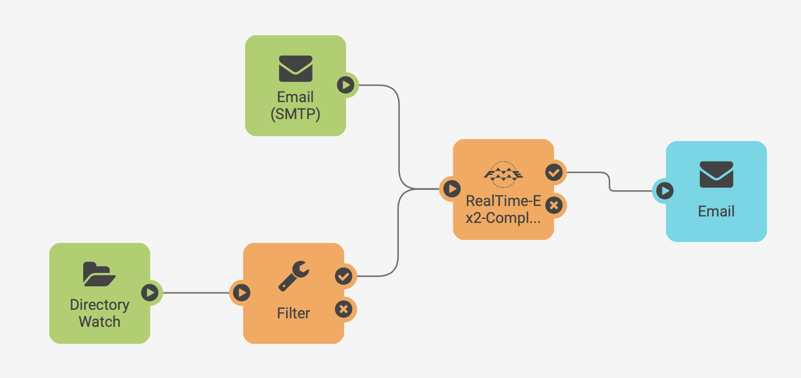
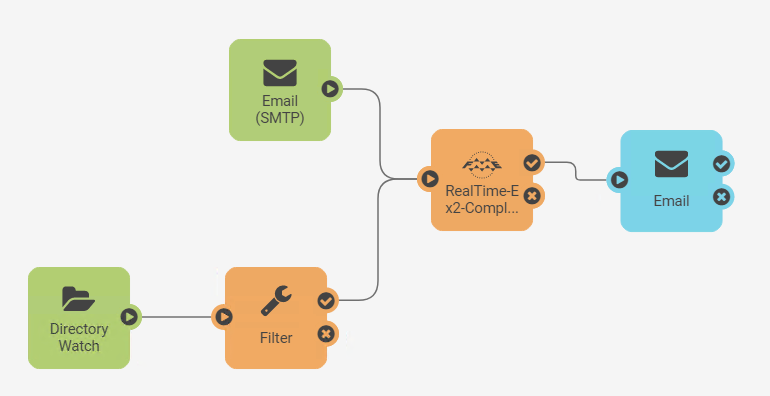
2019.1 Updates

diff --git a/ServerAuthoring4RealTime/4.04.AutomationTriggerAction.md b/ServerAuthoring4RealTime/4.04.AutomationTriggerAction.md
@@ -24,4 +24,24 @@ To send a notification in FME Server, a workspace author (or administrator) must
 ![](./Images/Img4.007.ActionMenu.png)
 
 
-Comparable to the FME Workbench canvas, Automations are constructed in a user friendly drag and drop interface. Triggers and actions are displayed on the canvas as nodes identifiable by their different color. Input and output ports are used to create connections that will pass  messages from the trigger to the associated action. The user must configure a series of parameters for the Automation to succeed dependent on the protocol. 
+Comparable to the FME Workbench canvas, Automations are constructed in a user friendly drag and drop interface. Triggers and actions are displayed on the canvas as nodes identifiable by their different color. Input and output ports are used to create connections that will pass  messages from the trigger to the associated action. The user must configure a series of parameters for the Automation to succeed dependent on the protocol.
+
+---
+<table style="border-spacing: 0px">
+<tr>
+<td style="vertical-align:middle;background-color:darkorange;border: 2px solid darkorange">
+<i class="fa fa-bolt fa-lg fa-pull-left fa-fw" style="color:white;padding-right: 12px;vertical-align:text-top"></i>
+<span style="color:white;font-size:x-large;font-weight: bold;font-family:serif">NEW 2019.1</span>
+</td>
+</tr>
+
+<tr>
+<td style="border: 1px solid darkorange">
+<span style="font-family:serif; font-style:italic; font-size:larger">
+Output ports have been added to all external actions for 2019.1. This enables an Automation to trigger further events after sending a notification to an external client.
+</span>
+</td>
+</tr>
+</table>
+
+---

diff --git a/ServerAuthoring4RealTime/4.01.Automations.md b/ServerAuthoring4RealTime/4.01.Automations.md
@@ -25,3 +25,23 @@ Automations allows you to incorporate a variety of triggers and actions into a s
 As well as using Automations to trigger an FME Server response to something that happened outside of FME Server, they are also useful when you want to send a message about something that happened on FME Server, to an external client. Again, if there is likely to be more than one message per second you should consider using Message Streaming.
 
 In either case, an automation is meant for sending a short message, usually in order to trigger an action from the recipient.
+
+---
+<table style="border-spacing: 0px">
+<tr>
+<td style="vertical-align:middle;background-color:darkorange;border: 2px solid darkorange">
+<i class="fa fa-bolt fa-lg fa-pull-left fa-fw" style="color:white;padding-right: 12px;vertical-align:text-top"></i>
+<span style="color:white;font-size:x-large;font-weight: bold;font-family:serif">NEW 2019.1</span>
+</td>
+</tr>
+
+<tr>
+<td style="border: 1px solid darkorange">
+<span style="font-family:serif; font-style:italic; font-size:larger">
+In 2019.1 it is now possible to share Automations with other users as View only or Run only. 
+</span>
+</td>
+</tr>
+</table>
+
+---

diff --git a/SUMMARY.md b/SUMMARY.md
@@ -66,7 +66,8 @@
   * [Elements of Automations](ServerAuthoring4RealTime/4.02.ElementsOfAutomations.md)
   * [Automation Clients](ServerAuthoring4RealTime/4.03.AutomationClients.md)
   * [Triggers and Actions](ServerAuthoring4RealTime/4.04.AutomationTriggerAction.md)
-  * [Automation Protocols](ServerAuthoring4RealTime/4.05.AutomationProtocolDetails.md)
+  * [Automation Protocols](ServerAuthoring4RealTime/4.05.AutomationProtocol.md)
+    * [Protocol Details](ServerAuthoring4RealTime/4.06.AutomationProtocolDetails.md)
   * [Exercise 4.1: Building Updates Automation: Directory Watch Trigger](ServerAuthoring4RealTime/Exercise1.md)
   * [Automations and Workspaces](ServerAuthoring4RealTime/4.08.AutomationsAndWorkspaces.md)
   * [Workspaces as Actions](ServerAuthoring4RealTime/4.09.WorkspacesAsAction.md)

diff --git a/ServerAuthoring4RealTime/Exercise4.md b/ServerAuthoring4RealTime/Exercise4.md
@@ -78,6 +78,7 @@ Select the plus icon in the bottom left and this time drag an External Action (b
 
 ![](./Images/Img4.430.Ex4.ConnectEmailAction.png)
 
+
 Double click on the node to configure it, set the action to send an email and set up your SMTP email server parameters.
 
 In case it is of use, the server information for Gmail is as follows:
